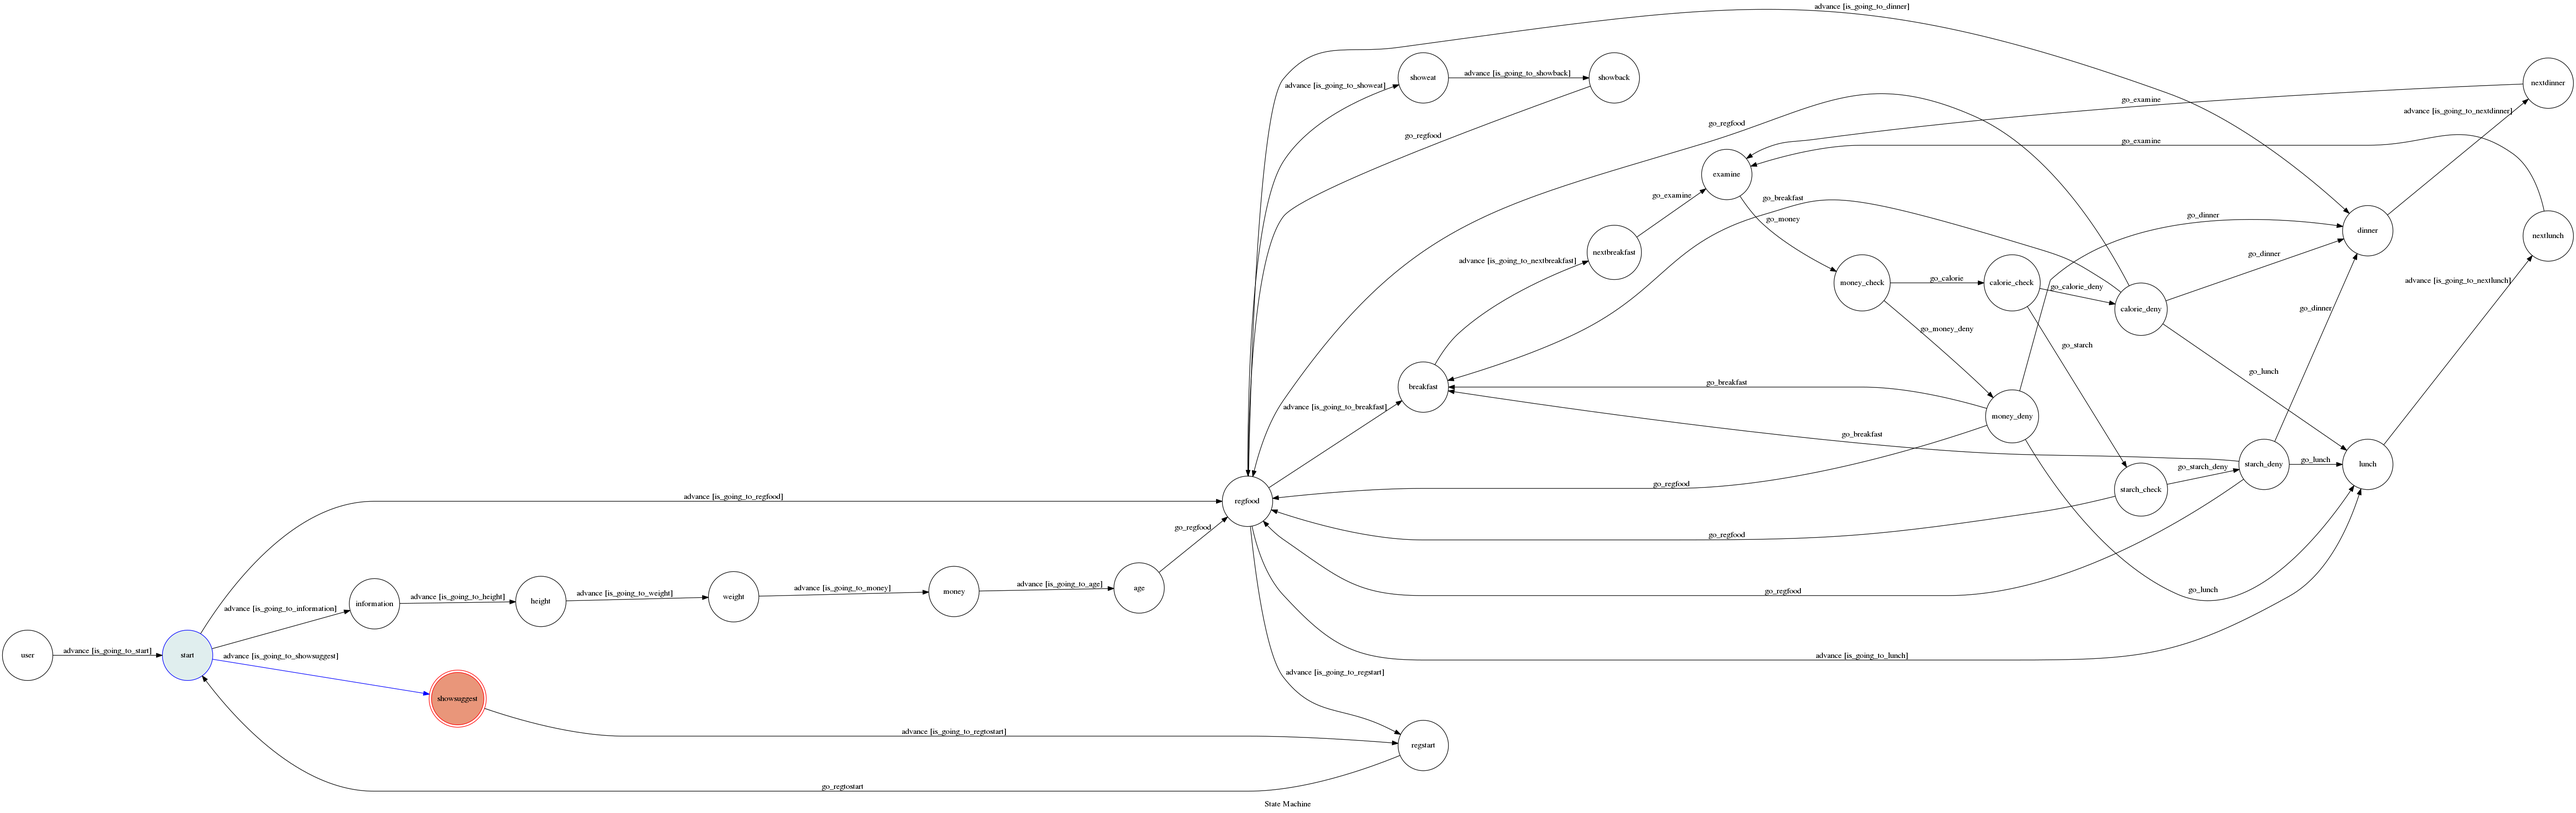
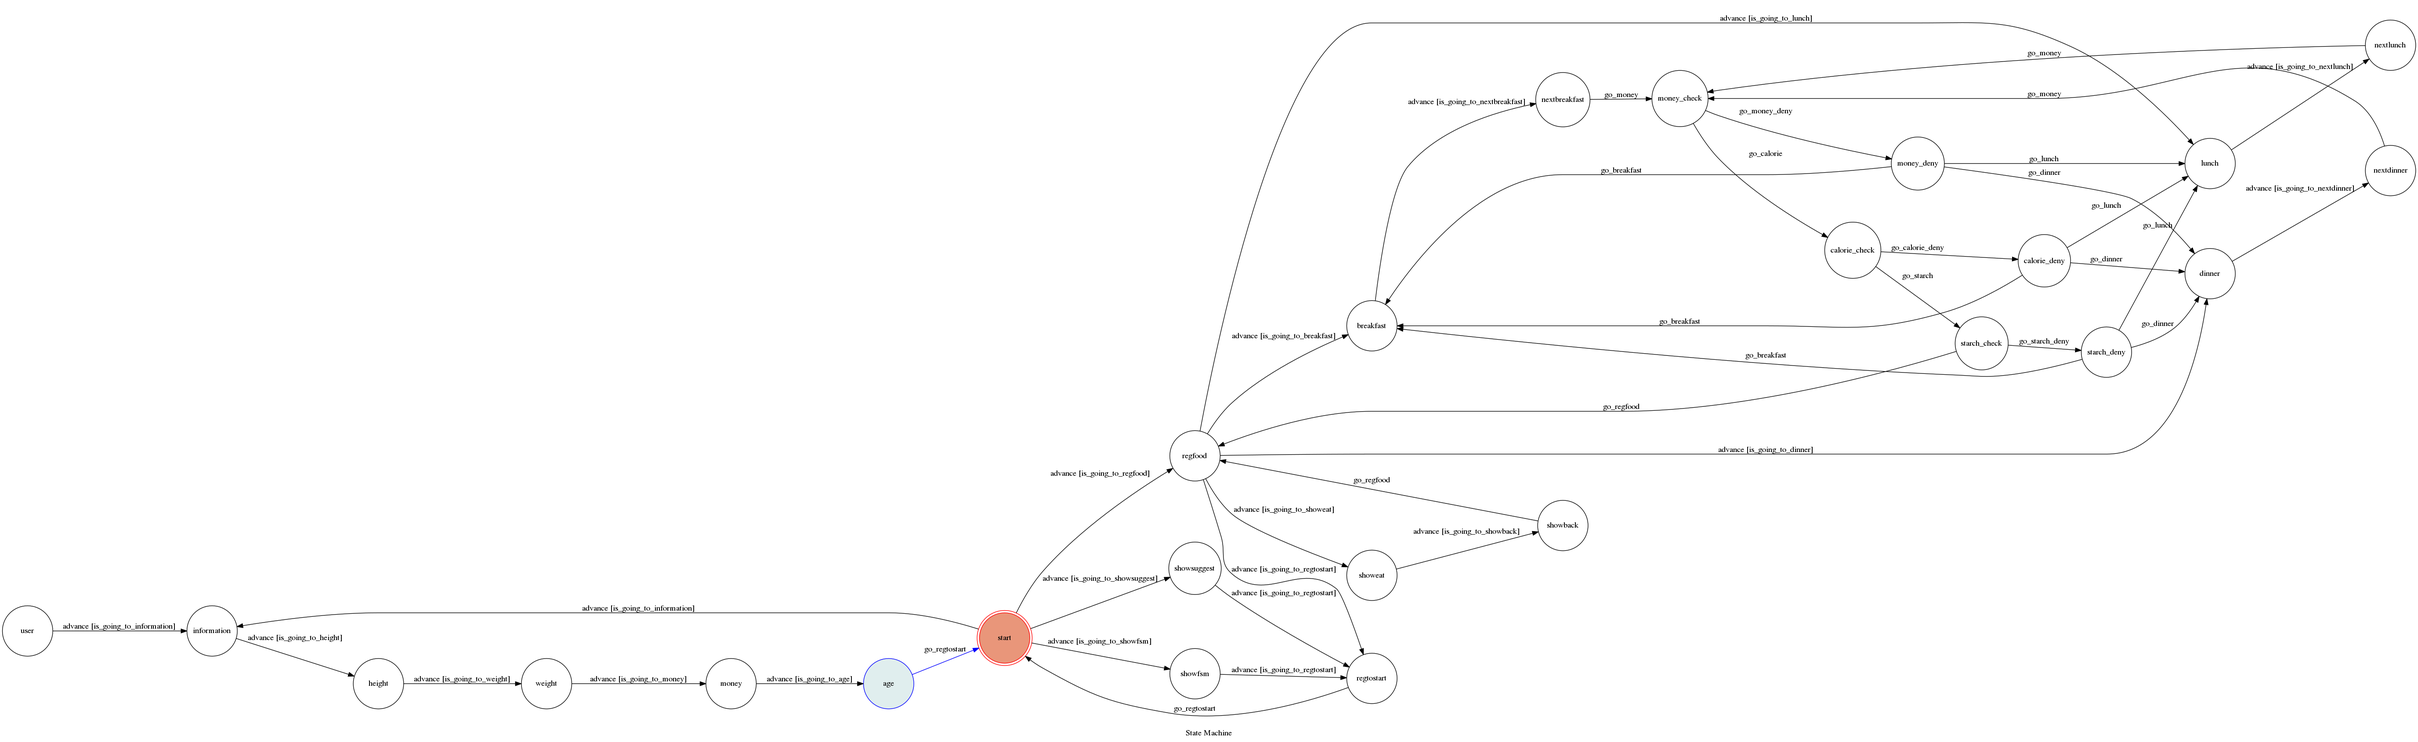
finish

diff --git a/fsm.py b/fsm.py
@@ -1,7 +1,6 @@
 from transitions.extensions import GraphMachine
-from utils import send_text_message
 from linebot.models import MessageEvent, TextMessage, TextSendMessage, TemplateSendMessage, ButtonsTemplate, MessageTemplateAction, PostbackTemplateAction
-from utils import send_button_message
+from utils import send_button_message,send_text_message,send_fsm
 #!/usr/bin/env python
 #coding=utf-8
 
@@ -44,20 +43,24 @@ class TocMachine(GraphMachine):
         
         btn_action=[
             MessageTemplateAction(
-                label='輸入身高體重年齡 來換算每日營養比例',
+                label='更新個人資訊',
                 text='information'
             ),
             MessageTemplateAction(
-                label='輸入餐點',
+                label='檢驗  早/午/晚餐熱量',
                 text='regfood'
             ),
             MessageTemplateAction(
-                label='顯示建議攝取營養比例',
+                label='顯示   建議營養比例',
                 text='showsuggest'
+            ),
+            MessageTemplateAction(
+                label='顯示 fsm圖',
+                text='showfsm'
             ),
         ]
         reply_token = event.reply_token
-        send_button_message(reply_token,btn_action,"請輸入")
+        send_button_message(reply_token,btn_action,"功能表單","提供以下功能")
 
     #input the food
     def is_going_to_regfood(self, event):
@@ -78,7 +81,7 @@ class TocMachine(GraphMachine):
                 text='dinner'
             ),
             MessageTemplateAction(
-                label='顯示當前狀況',
+                label='顯示     營養比例/熱量',
                 text='showeat'
             ),
         ]
@@ -91,10 +94,14 @@ class TocMachine(GraphMachine):
     #input the information
     def is_going_to_information(self, event):
         text = event.message.text
-        return text.lower() == "information"
+        if(text.lower() == "start" or text.lower() == "information"):
+            return True
+        else:
+            return False
+        # return text.lower() == "information"
     def on_enter_information(self, event):
         reply_token = event.reply_token
-        send_text_message(reply_token, "輸入身高(cm)")
+        send_text_message(reply_token, "歡迎使用維持體脂小幫手\n******請先輸入基本資訊******\n\n輸入身高(cm)")
     #input the height
     def is_going_to_height(self, event):
         text = event.message.text
@@ -142,7 +149,7 @@ class TocMachine(GraphMachine):
         print(tdee,'tdee')
         print(TocMachine.Totalcalorie,"Totalcalorie")
         print(TocMachine.Totalstarch,"Totalstarch")
-        self.go_regfood(event)
+        self.go_regtostart(event)
 
 
 
@@ -161,7 +168,7 @@ class TocMachine(GraphMachine):
         print(TocMachine.Ilunch['money'],"lunch")
         print(TocMachine.Idinner['money'],"dinner")
         print(sum,"sum = ")
-        if sum < TocMachine.Totalmoney:
+        if sum <= TocMachine.Totalmoney:
             self.go_calorie(event,strback)
         else:
             self.go_money_deny(event,strback)
@@ -258,31 +265,31 @@ class TocMachine(GraphMachine):
         print(TocMachine.Totalstarch,"Totalstarch")
         
         msg0 = '設定完身高體重即可換算\n\n'
-        msg1 = '建議攝取熱量:%20d\n' % (TocMachine.Totalcalorie)
-        msg2 = '建議攝取澱粉:%20d\n' % (TocMachine.Totalstarch)
-        msg3 = '每日金額:    %20d\n' % (TocMachine.Totalmoney)
+        msg1 = '建議攝取熱量:%20d大卡\n' % (TocMachine.Totalcalorie)
+        msg2 = '建議攝取澱粉:%20d公克\n' % (TocMachine.Totalstarch)
+        msg3 = '每日金額:         %20d元\n\n' % (TocMachine.Totalmoney)
         msg4 = '返回請輸入1'
         reply_token = event.reply_token
-        send_text_message(reply_token,msg0+msg1+msg2+msg3)
-    # #show suggest back
-    # def is_going_to_showsugback(self, event,indic=""):
-    #     text = event.message.text
-    #     return text.lower() == "1"
-    # def on_enter_showsugback(self, event ,indic=""):  
-    #     self.go_regstart(event)
-
-
-
-
-
+        send_text_message(reply_token,msg0+msg1+msg2+msg3+msg4)
+    
+    #showfsm
+    def is_going_to_showfsm(self, event,indic=""):
+        text = event.message.text
+        return text.lower() == "showfsm"
+    def on_enter_showfsm(self, event ,indic=""):
+        reply_token = event.reply_token
+        send_fsm(reply_token)
 
 
 
     #regfood back to start
-    def is_going_to_regstart(self, event,indic=""):
+    def is_going_to_regtostart(self, event,indic=""):
         text = event.message.text
+        reply_token = event.reply_token
+        if text.lower() != "1":
+            send_text_message(reply_token,"輸入1回到上一個階段")
         return text.lower() == "1"
-    def on_enter_regstart(self, event ,indic=""):  
+    def on_enter_regtostart(self, event ,indic=""):  
         print(" go to start")
         self.go_regtostart(event)
 
@@ -317,7 +324,6 @@ class TocMachine(GraphMachine):
         text = event.message.text
         input = text.split()
         print(input)
-        # print(text,"check the nextbreakfast")
         if input[0] == '1':
             TocMachine.Ibreakfast['calorie'] = 270
             TocMachine.Ibreakfast['starch']  = 20
@@ -348,7 +354,7 @@ class TocMachine(GraphMachine):
             print(TocMachine.Ilunch['money'],"lunch")
             print(TocMachine.Idinner['money'],"dinner")
             print("in riceroll")
-        self.go_examine(event,"breakfast")
+        self.go_money(event,"breakfast")
 
     #lunch
     def is_going_to_lunch(self, event):
@@ -383,7 +389,6 @@ class TocMachine(GraphMachine):
         text = event.message.text
         input = text.split()
         print(input)
-        # print(text,"check the nextlunch")
         if input[0] == '1':
             TocMachine.Ilunch['calorie'] = 500
             TocMachine.Ilunch['starch']  = 55
@@ -428,7 +433,7 @@ class TocMachine(GraphMachine):
             print(TocMachine.Ilunch['money'],"lunch")
             print(TocMachine.Idinner['money'],"dinner")
             print("in boxedlunch")
-        self.go_examine(event,"lunch")
+        self.go_money(event,"lunch")
     
     #dinner
     def is_going_to_dinner(self, event):
@@ -509,4 +514,4 @@ class TocMachine(GraphMachine):
             print(TocMachine.Ilunch['money'],"lunch")
             print(TocMachine.Idinner['money'],"dinner")
             print("in chilipork")
-        self.go_examine(event,"dinner")
+        self.go_money(event,"dinner")

diff --git a/app.py b/app.py
@@ -13,68 +13,59 @@ load_dotenv()
 
 
 machine = TocMachine(
-    states=["user","start","information","regfood",'examine',
-            'height','weight','money','age','showeat','showback',"showsuggest",
+    states=["user","start","information","regfood",
+            'height','weight','money','age','showeat','showback',"showsuggest","showfsm",
             "breakfast",'lunch','dinner','regtostart',
             'nextbreakfast','nextlunch','nextdinner',
             'money_check','calorie_check','starch_check',
             'money_deny','calorie_deny','starch_deny',
     ],
     transitions=[
-        {"trigger": "advance","source": "user","dest": "start","conditions": "is_going_to_start",},
+        #first from initial state user to start
+        {"trigger": "advance","source": "user","dest": "information","conditions": "is_going_to_information",},
+        #from start to choose function
         {"trigger": "advance","source": "start","dest": "regfood","conditions": "is_going_to_regfood",},
         {"trigger": "advance","source": "start","dest": "information","conditions": "is_going_to_information",},
-        #height
+        {"trigger": "advance","source": "start","dest": "showsuggest","conditions": "is_going_to_showsuggest",},
+        {"trigger": "advance","source": "start","dest": "showfsm","conditions": "is_going_to_showfsm",},
+        #input the self information (height->weight->money->age)
         {"trigger": "advance","source": "information","dest": "height","conditions": "is_going_to_height",},
-        #weight
         {"trigger": "advance","source": "height","dest": "weight","conditions": "is_going_to_weight",},
-        #money
         {"trigger": "advance","source": "weight","dest": "money","conditions": "is_going_to_money",},
-        #age
         {"trigger": "advance","source": "money","dest": "age","conditions": "is_going_to_age",},
-        #regfood to three meal
+        #regfood(choose which meal eated) to three meal
         {"trigger": "advance","source": "regfood","dest": "breakfast","conditions": "is_going_to_breakfast",},
         {"trigger": "advance","source": "regfood","dest": "lunch","conditions": "is_going_to_lunch",},
         {"trigger": "advance","source": "regfood","dest": "dinner","conditions": "is_going_to_dinner",},
         {"trigger": "advance","source": "regfood","dest": "showeat","conditions": "is_going_to_showeat",},
-        
-        #show suggest and back
-        {"trigger": "advance","source": "start","dest": "showsuggest","conditions": "is_going_to_showsuggest",},
-        {"trigger": "advance","source": "showsuggest","dest": "regtostart","conditions": "is_going_to_regtostart",},
-        
-        #show eat to back
-        {"trigger": "advance","source": "showeat","dest": "showback","conditions": "is_going_to_showback",},
-        
-        
-        #regfood back to start
-        {"trigger": "advance","source": "regfood","dest": "regtostart","conditions": "is_going_to_regtostart",},
-        
-
-
         #three meal to next 
         {"trigger": "advance","source": "breakfast","dest": "nextbreakfast","conditions": "is_going_to_nextbreakfast",},
         {"trigger": "advance","source": "lunch","dest": "nextlunch","conditions": "is_going_to_nextlunch",},
         {"trigger": "advance","source": "dinner","dest": "nextdinner","conditions": "is_going_to_nextdinner",},
-        #check
-        {"trigger":"go_money","source":"examine","dest":"money_check"},
+        
+        #three check by (money calorie starch)
+        {"trigger":"go_money","source":['nextbreakfast','nextlunch','nextdinner'],"dest":"money_check"},
         {"trigger":"go_calorie","source":"money_check","dest":"calorie_check"},
         {"trigger":"go_starch","source":"calorie_check","dest":"starch_check"},
-        #check to deny
+        #when check is not allow go to the deny
         {"trigger":"go_money_deny","source":"money_check","dest":"money_deny"},
         {"trigger":"go_calorie_deny","source":"calorie_check","dest":"calorie_deny"},
         {"trigger":"go_starch_deny","source":"starch_check","dest":"starch_deny"},
-        #back to rechoose 
+        #from deny to original meal(for rechoose the meal) 
         {"trigger":"go_breakfast","source":['money_deny','calorie_deny','starch_deny'],"dest":"breakfast"},
         {"trigger":"go_lunch","source":['money_deny','calorie_deny','starch_deny'],"dest":"lunch"},
         {"trigger":"go_dinner","source":['money_deny','calorie_deny','starch_deny'],"dest":"dinner"},
+
+        #back to start
+        {"trigger": "advance","source": ["showsuggest","regfood","showfsm"],"dest": "regtostart","conditions": "is_going_to_regtostart",},
+        #back to start by go
+        {"trigger":"go_regtostart","source":['regtostart','age'],"dest":"start"},
+        #from showeat go to showback
+        {"trigger": "advance","source": "showeat","dest": "showback","conditions": "is_going_to_showback",},
         #back to regfood
-        {"trigger":"go_regfood","source":['money_deny','calorie_deny','starch_deny','starch_check','age','showback'],"dest":"regfood"},
+        {"trigger":"go_regfood","source":['starch_check','showback'],"dest":"regfood"},
         
         
-        #go_examine
-        {"trigger": "go_examine", "source": ['nextbreakfast','nextlunch','nextdinner'], "dest": "examine"},
-        #regfood to start
-        {"trigger":"go_regtostart","source":['regtostart'],"dest":"start"},
         
         
     ],

diff --git a/utils.py b/utils.py
@@ -1,7 +1,7 @@
 import os
 
 from linebot import LineBotApi, WebhookParser
-from linebot.models import MessageEvent, TextMessage, TextSendMessage
+from linebot.models import MessageEvent, TextMessage, TextSendMessage, ImageSendMessage
 from linebot.models import MessageEvent, TextMessage, TextSendMessage, TemplateSendMessage, ButtonsTemplate, MessageTemplateAction, PostbackTemplateAction
 
 channel_access_token = os.getenv("LINE_CHANNEL_ACCESS_TOKEN", None)
@@ -12,18 +12,29 @@ def send_text_message(reply_token, text):
     line_bot_api.reply_message(reply_token, TextSendMessage(text=text))
 
     return "OK"
-def send_button_message(reply_token,btn_action,indicate,textdic='選擇接近的餐點'):
+def send_fsm(reply_token):
+    line_bot_api = LineBotApi(channel_access_token)
+    fsm = ImageSendMessage(
+        original_content_url='https://i.imgur.com/8EU4lGi.png',
+        preview_image_url='https://i.imgur.com/8EU4lGi.png'
+    )
+    line_bot_api.reply_message(reply_token, fsm)
+    return "OK"
+
+def send_button_message(reply_token,btn_action,indicate,textdic='選擇接近的餐點',imageurl='https://i.imgur.com/Fe3neuK.jpg'):
     line_bot_api = LineBotApi(channel_access_token)
     if textdic == "":
         textdic = "選擇接近的餐點"
     buttons_template = TemplateSendMessage(
         alt_text='Buttons Template',
         template=ButtonsTemplate(
+            thumbnail_image_url=imageurl,
             title=indicate,
             text=textdic,
             actions=btn_action
         )
     )
+
     line_bot_api.reply_message(reply_token, buttons_template )
 
     return "OK"
